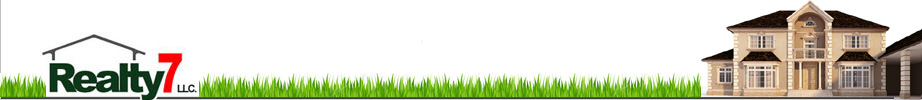
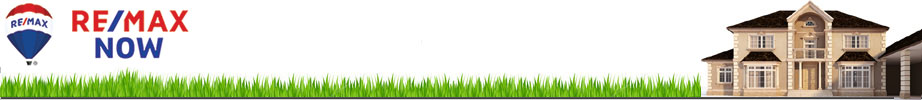
ReMax Branding

Changed region(s): [[0.0, 0.03, 0.243, 1.0]]

diff --git a/css/main.css b/css/main.css
@@ -15,7 +15,7 @@ body
 	clear:both; 
 	padding-bottom:10px; 
 	/*background-image: url(../images/new_banner.jpg);*/
-	background-image: url(../images/client-banner.jpg);
+	background-image: url(../images/client-banner.gif);
 	width: 922px;
 	height:90px;
 }
